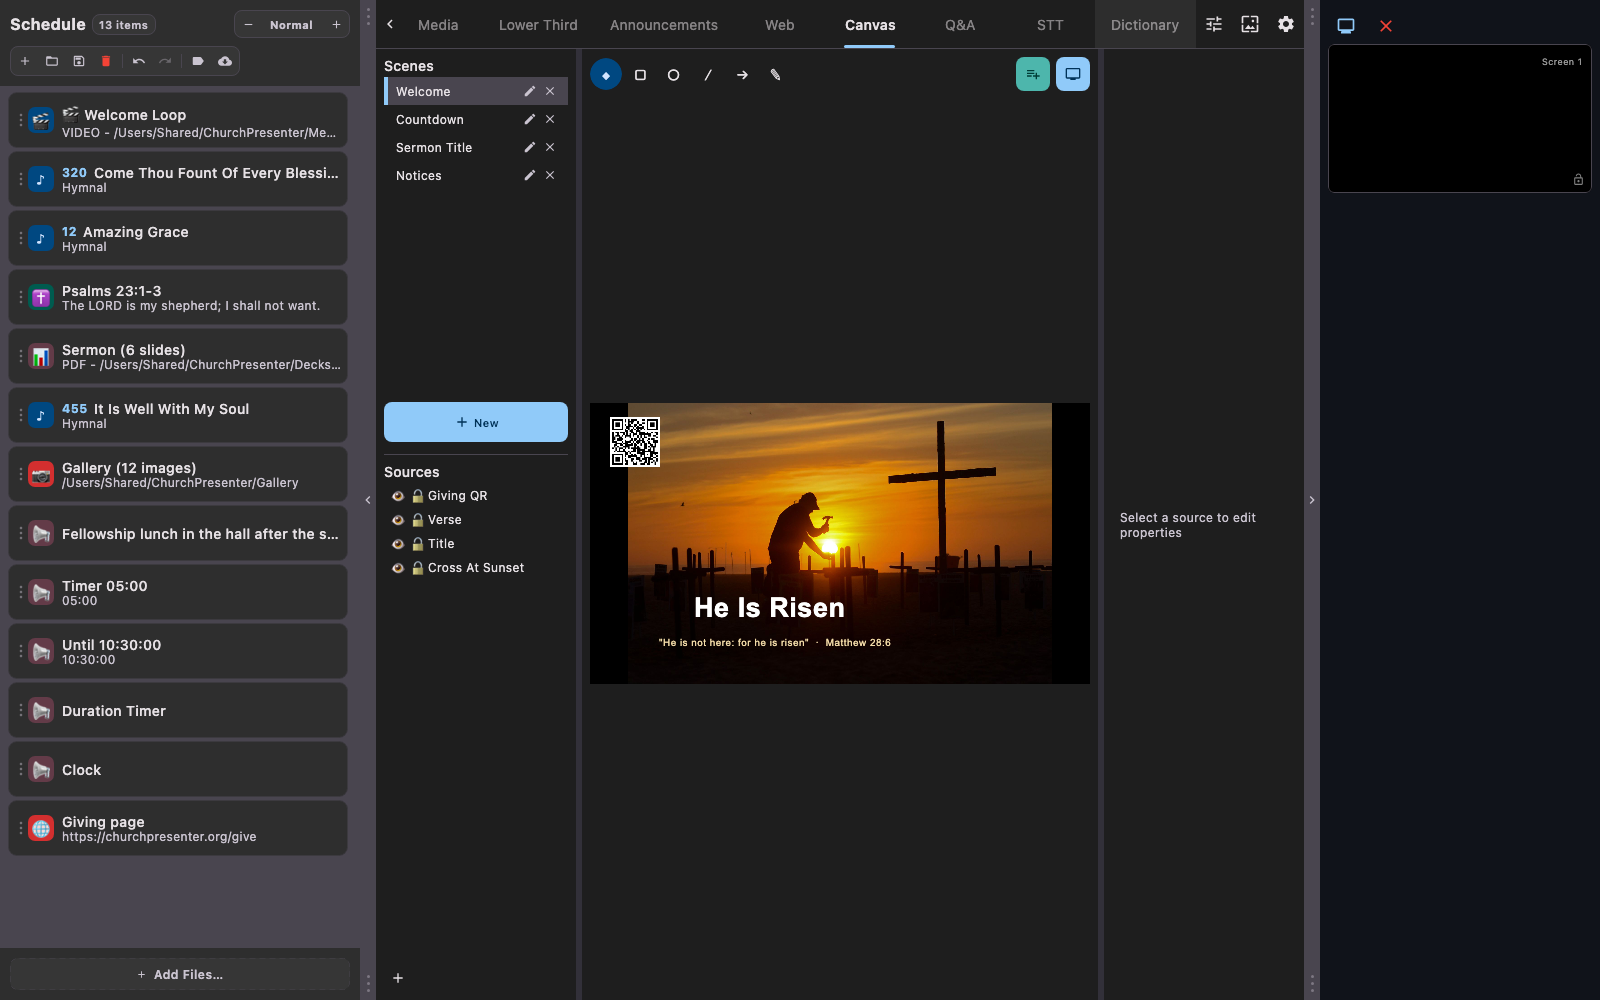
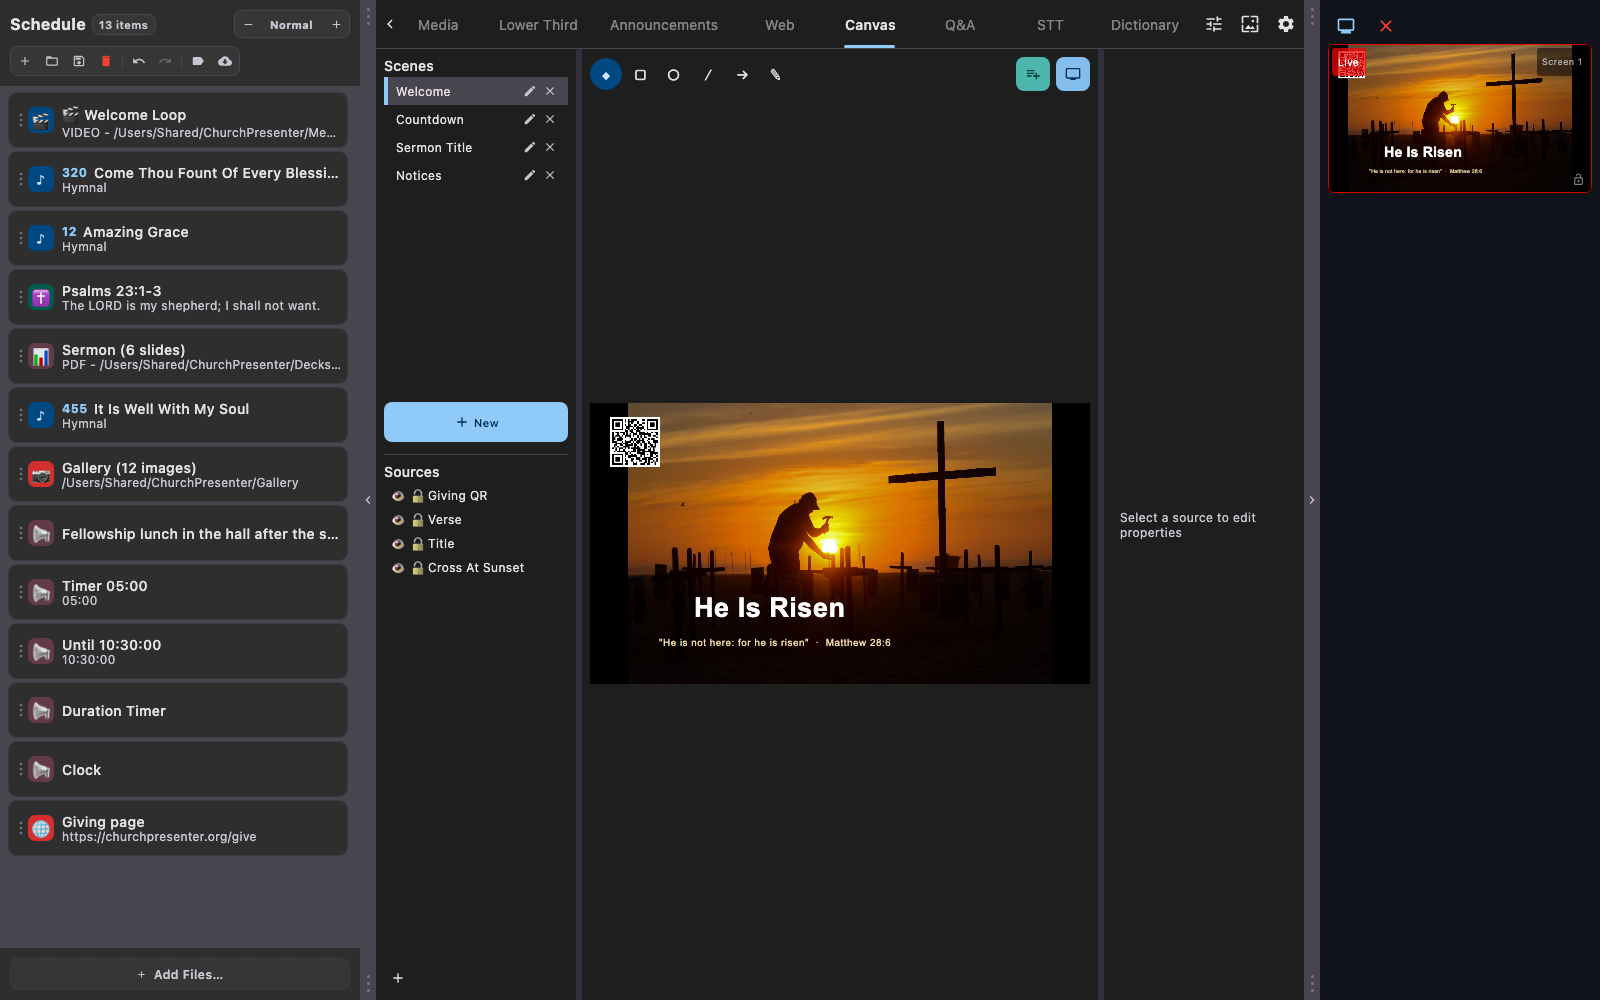
Take the placeholder content out of the schedule screenshot
The schedule shots are exported for the website, where the schedule row prints the path of
every file-backed item at detailed density -- so this fixture's contents are on screen at
churchpresenter.org today: https://example.org/notices, /decks/sermon.pptx, /media/baptism
and "Baptism (37 images)".

#231 removed exactly these placeholders from AppPreviewSupport.kt and missed this fixture,
which is a separate one. The paths and names now match the app-preview library, so two
images of the same app no longer disagree about where a church keeps its files.

Also gives the canvas preview something live. AppPreviewCanvasScreenshotTest was the only
preview class with no drive block -- every sibling calls goLive() -- so its output panel
rendered as a black rectangle: a fair picture of the app doing nothing and a poor one of
the app working.

Verified by opening the re-recorded images rather than by the suite passing; the suite was
green through both defects.

Changed region(s): [[0.8125, 0.031, 1.0, 0.186]]

diff --git a/composeApp/src/jvmTest/kotlin/org/churchpresenter/app/churchpresenter/screenshot/ScheduleTabScreenshotTest.kt b/composeApp/src/jvmTest/kotlin/org/churchpresenter/app/churchpresenter/screenshot/ScheduleTabScreenshotTest.kt
@@ -39,14 +39,27 @@ class ScheduleTabScreenshotTest {
             verseNumber = 16,
             verseText = "For God so loved the world, that he gave his only begotten Son.",
         )
+        // Paths and URLs here are drawn on screen — the schedule row prints the path of every
+        // file-backed item at detailed density — and these shots are exported for the website. They
+        // therefore match the app-preview fixture's library root and naming rather than standing in
+        // as `/decks/…` placeholders, so two images of the same app do not disagree about where a
+        // church keeps its files. See the LIBRARY note in AppPreviewSupport.kt.
         addPresentation(
-            filePath = "/decks/sermon.pptx",
-            fileName = "sermon.pptx",
+            filePath = "/Users/Shared/ChurchPresenter/Decks/Sermon.pptx",
+            fileName = "Sermon.pptx",
             slideCount = 24,
             fileType = "pptx",
         )
-        addPicture(folderPath = "/media/baptism", folderName = "Baptism", imageCount = 37)
-        addMedia(mediaUrl = "/media/welcome.mp4", mediaTitle = "Welcome loop", mediaType = "video")
+        addPicture(
+            folderPath = "/Users/Shared/ChurchPresenter/Gallery",
+            folderName = "Gallery",
+            imageCount = 12,
+        )
+        addMedia(
+            mediaUrl = "/Users/Shared/ChurchPresenter/Media/Welcome Loop.mp4",
+            mediaTitle = "Welcome Loop",
+            mediaType = "video",
+        )
         addLowerThird(
             presetId = "lt-1",
             presetLabel = "Guest speaker",
@@ -54,7 +67,7 @@ class ScheduleTabScreenshotTest {
             pauseDurationMs = 4000,
         )
         addAnnouncement(text = "Fellowship lunch after the service")
-        addWebsite(url = "https://example.org/notices", title = "Notices")
+        addWebsite(url = "https://churchpresenter.org/notices", title = "Notices")
         addScene(sceneId = "scene-1", sceneName = "Countdown scene")
         addDictionary(
             number = "H2617",

diff --git a/composeApp/src/jvmTest/kotlin/org/churchpresenter/app/churchpresenter/screenshot/AppPreviewCanvasScreenshotTest.kt b/composeApp/src/jvmTest/kotlin/org/churchpresenter/app/churchpresenter/screenshot/AppPreviewCanvasScreenshotTest.kt
@@ -7,6 +7,16 @@ import kotlin.test.Test
 
 class AppPreviewCanvasScreenshotTest {
 
+    /**
+     * The canvas tab with its scene **live**.
+     *
+     * Every sibling preview goes live before its shot; this one did not, which is why its output
+     * panel rendered as a black rectangle — the audience preview with nothing being presented. That
+     * is a fair picture of the app doing nothing and a poor one of the app working, and these shots
+     * are exported for the website.
+     */
     @Test
-    fun `the canvas tab`() = appPreview("canvas", Tabs.CANVAS)
+    fun `the canvas tab`() = appPreview("canvas", Tabs.CANVAS) {
+        goLive()
+    }
 }
